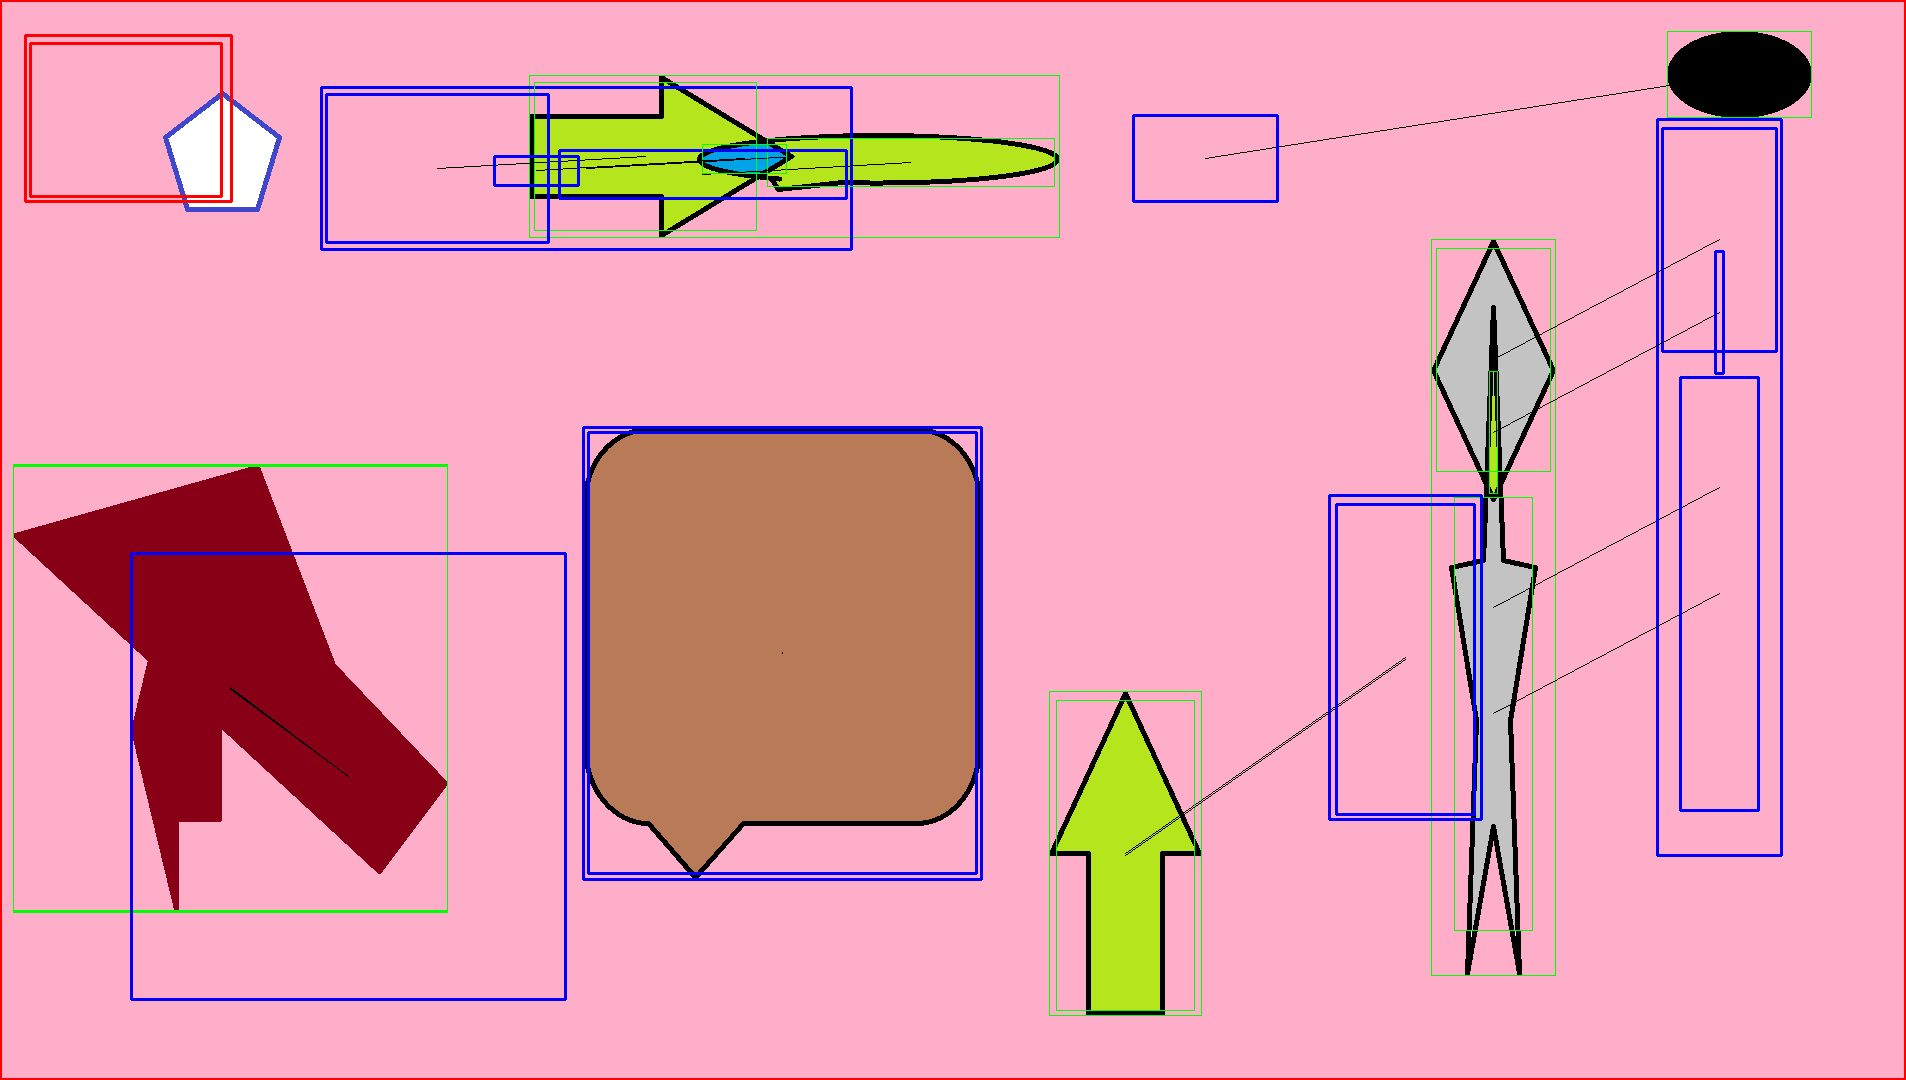
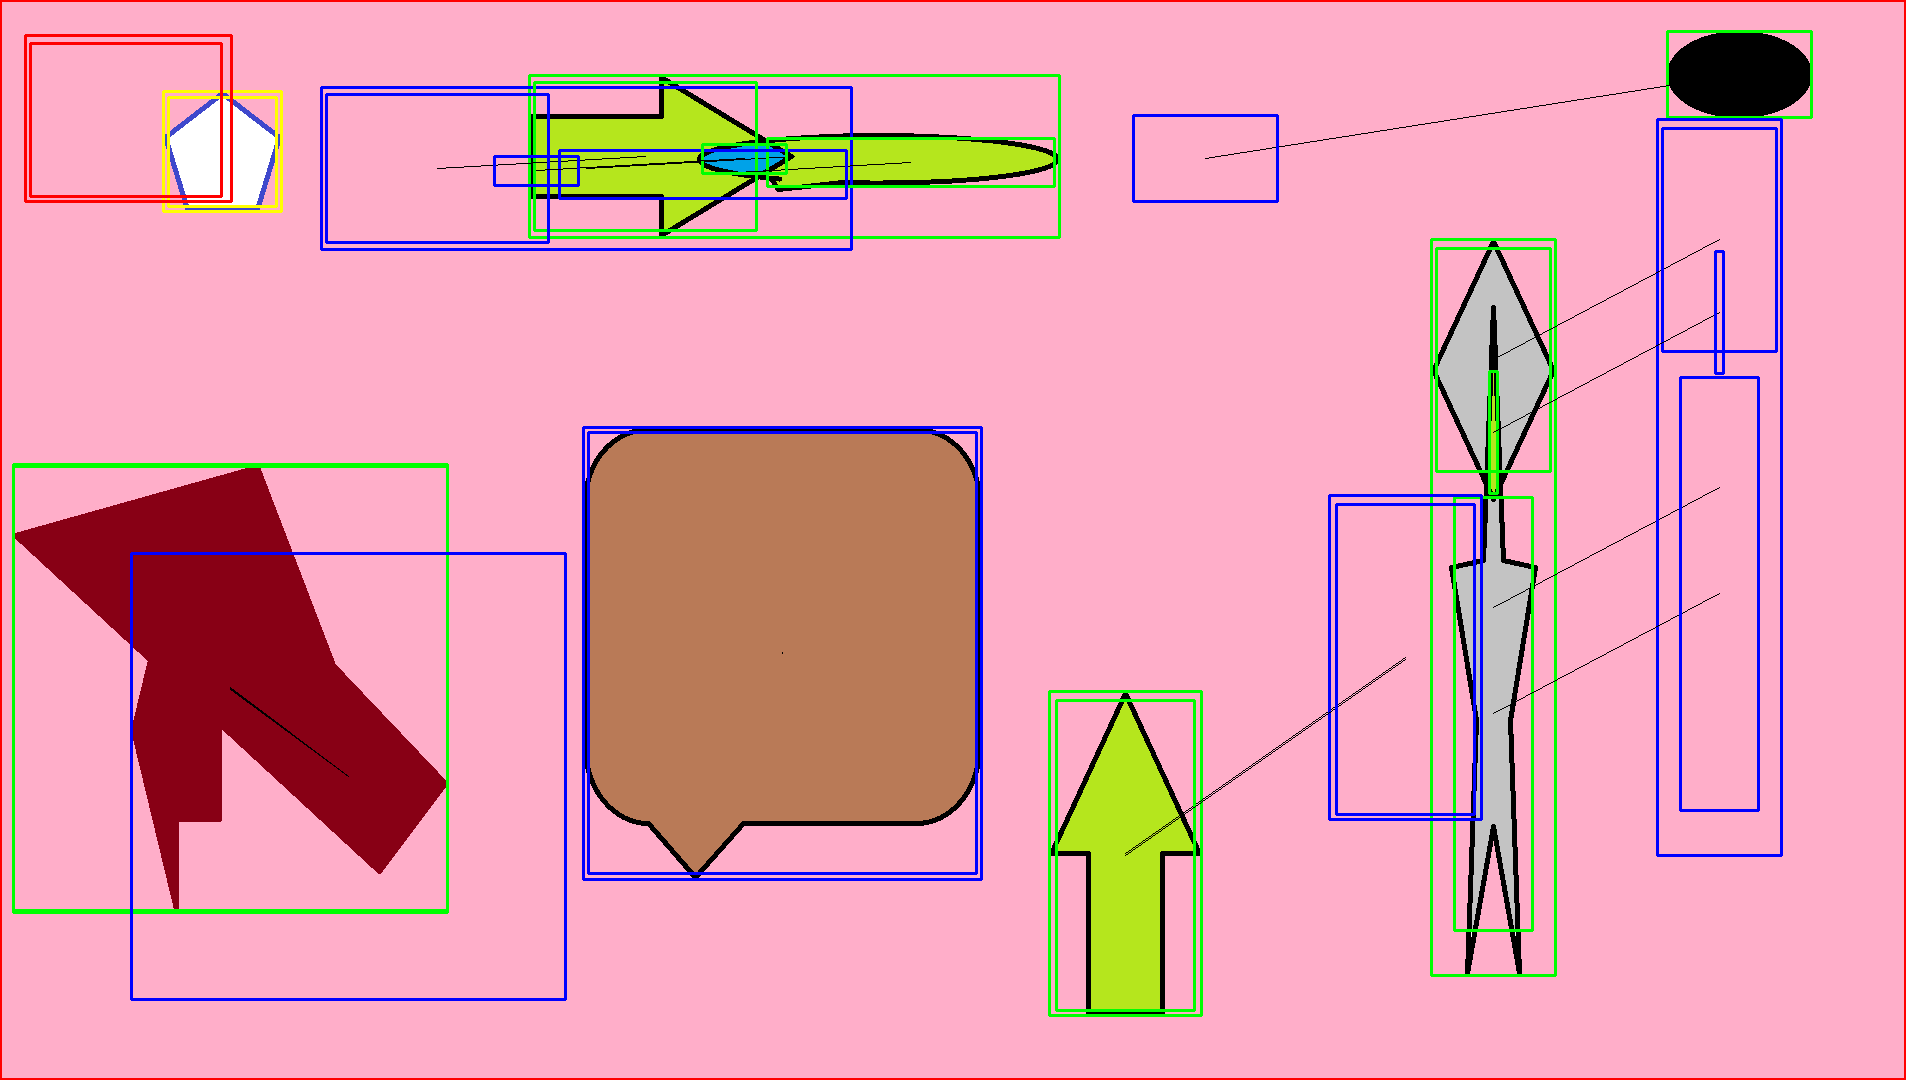
FINISHED(optimized)+new objects

diff --git a/main.py b/main.py
@@ -25,6 +25,12 @@ def check(y1, x1, y2, x2):
         return False
     return True
 
+def check2(y1, x1, y2, x2):
+    global before, after
+    if after[y1][x1][0] != after[y2][x2][0] or after[y1][x1][1] != after[y2][x2][1] or after[y1][x1][2] != after[y2][x2][2]:
+        return False
+    return True
+
 def bfs(y, x, maxSize):
     # print('bfs!')
     global H, W, before, after, used
@@ -69,13 +75,92 @@ def bfs(y, x, maxSize):
         return (-1, -1, -1, -1, -1)
     return (leftAns, rightAns, upperAns, bottomAns, col)
 
+###############################################################################
+
+
+def bfs2(y, x, maxSize):
+    # print('bfs!')
+    global H, W, before, after, used
+    leftAns = 1e8
+    rightAns = -1e8
+    upperAns = 1e8
+    bottomAns = -1e8
+    col = 0
+
+    q = []
+
+    q.append((y, x))
+    while(len(q) != 0):
+        # used[q[0][0]][q[0][1]] = True
+        # if col % 10000 == 0:
+        #     print(col)
+        leftAns = min(q[0][1], leftAns)
+        rightAns = max(q[0][1], rightAns)
+        upperAns = min(q[0][0], upperAns)
+        bottomAns = max(q[0][0], bottomAns)
+
+        if q[0][1] + 1 < W and check2(q[0][0], q[0][1], q[0][0], q[0][1] + 1) == True and used[q[0][0]][q[0][1] + 1] == False:
+            used[q[0][0]][q[0][1] + 1] = True
+            q.append((q[0][0], q[0][1] + 1))
+            col+= 1
+        if q[0][1] - 1 >= 0 and check2(q[0][0], q[0][1], q[0][0], q[0][1] - 1) == True and used[q[0][0]][q[0][1] - 1] == False:
+            used[q[0][0]][q[0][1] - 1] = True
+            q.append((q[0][0], q[0][1] - 1))
+            col+= 1
+        if q[0][0] + 1 < H and check2(q[0][0], q[0][1], q[0][0] + 1, q[0][1]) == True and used[q[0][0] + 1][q[0][1]] == False:
+            used[q[0][0] + 1][q[0][1]] = True
+            q.append((q[0][0] + 1, q[0][1]))
+            col+= 1
+        if q[0][0] - 1 >= 0 and check2(q[0][0], q[0][1], q[0][0] - 1, q[0][1]) == True and used[q[0][0] - 1][q[0][1]] == False:
+            used[q[0][0] - 1][q[0][1]] = True
+            q.append((q[0][0] - 1, q[0][1]))
+            col+= 1
+
+        q.pop(0)
+    # print('End of loop')
+    if col > maxSize:
+        return (-1, -1, -1, -1, -1)
+    return (leftAns, rightAns, upperAns, bottomAns, col)
+
+
+###############################################################################
+
+
+
 print(f'{H} x {W}')
+
 print('loading...')
 for i in range(0, H):
     for j in range(0, W):
-        for g in range(1, 11):
-            if i == H // 100 * g * 10 and j == 0:
-                print(g * 10, f'%')
+        # for g in range(1, 11):
+        #     if i == H // 100 * g * 10 and j == 0:
+        #         print(g * 10, f'%')
+        leftAns, rightAns, upperAns, bottomAns, col = (-1, -1, -1, -1, -1)
+        if used[i][j] == False:
+            leftAns, rightAns, upperAns, bottomAns, col = bfs2(i, j, maxSize)
+        if col > 9 and abs(leftAns - rightAns) > 2 and abs(upperAns - bottomAns) > 2:
+            sample = before[upperAns:bottomAns, leftAns:rightAns]
+            # if i > 2:
+            #     cv2.imwrite(f'{i}.png', sample)
+
+            cv2.rectangle(result_after, (leftAns, upperAns), (rightAns, bottomAns), (0, 255, 255), 2)
+
+
+
+used = []
+maxSize = H * W - 1e5
+
+for i in range(0, H):
+    used.append([])
+    for j in range(0, W):
+        used[i].append(False)
+
+print('loading...')
+for i in range(0, H):
+    for j in range(0, W):
+        # for g in range(1, 11):
+        #     if i == H // 100 * g * 10 and j == 0:
+        #         print(g * 10, f'%')
         leftAns, rightAns, upperAns, bottomAns, col = (-1, -1, -1, -1, -1)
         if used[i][j] == False:
             leftAns, rightAns, upperAns, bottomAns, col = bfs(i, j, maxSize)
@@ -97,7 +182,7 @@ for i in range(0, H):
             # print(f'len:', loc[::-1])
 
             for pt in zip(*loc[::-1]):
-                cv2.rectangle(result_after, pt, (pt[0] + w, pt[1] + h), (0, 255, 0), 1)
+                cv2.rectangle(result_after, pt, (pt[0] + w, pt[1] + h), (0, 255, 0), 2)
                 cv2.line(result_after, (abs(leftAns + rightAns) // 2, abs(upperAns + bottomAns) // 2), (pt[0] + w // 2, pt[1] + h // 2), (0, 0, 0))
 
             cv2.rectangle(result_after, (leftAns, upperAns), (rightAns, bottomAns), (255, 0, 0), 2)
